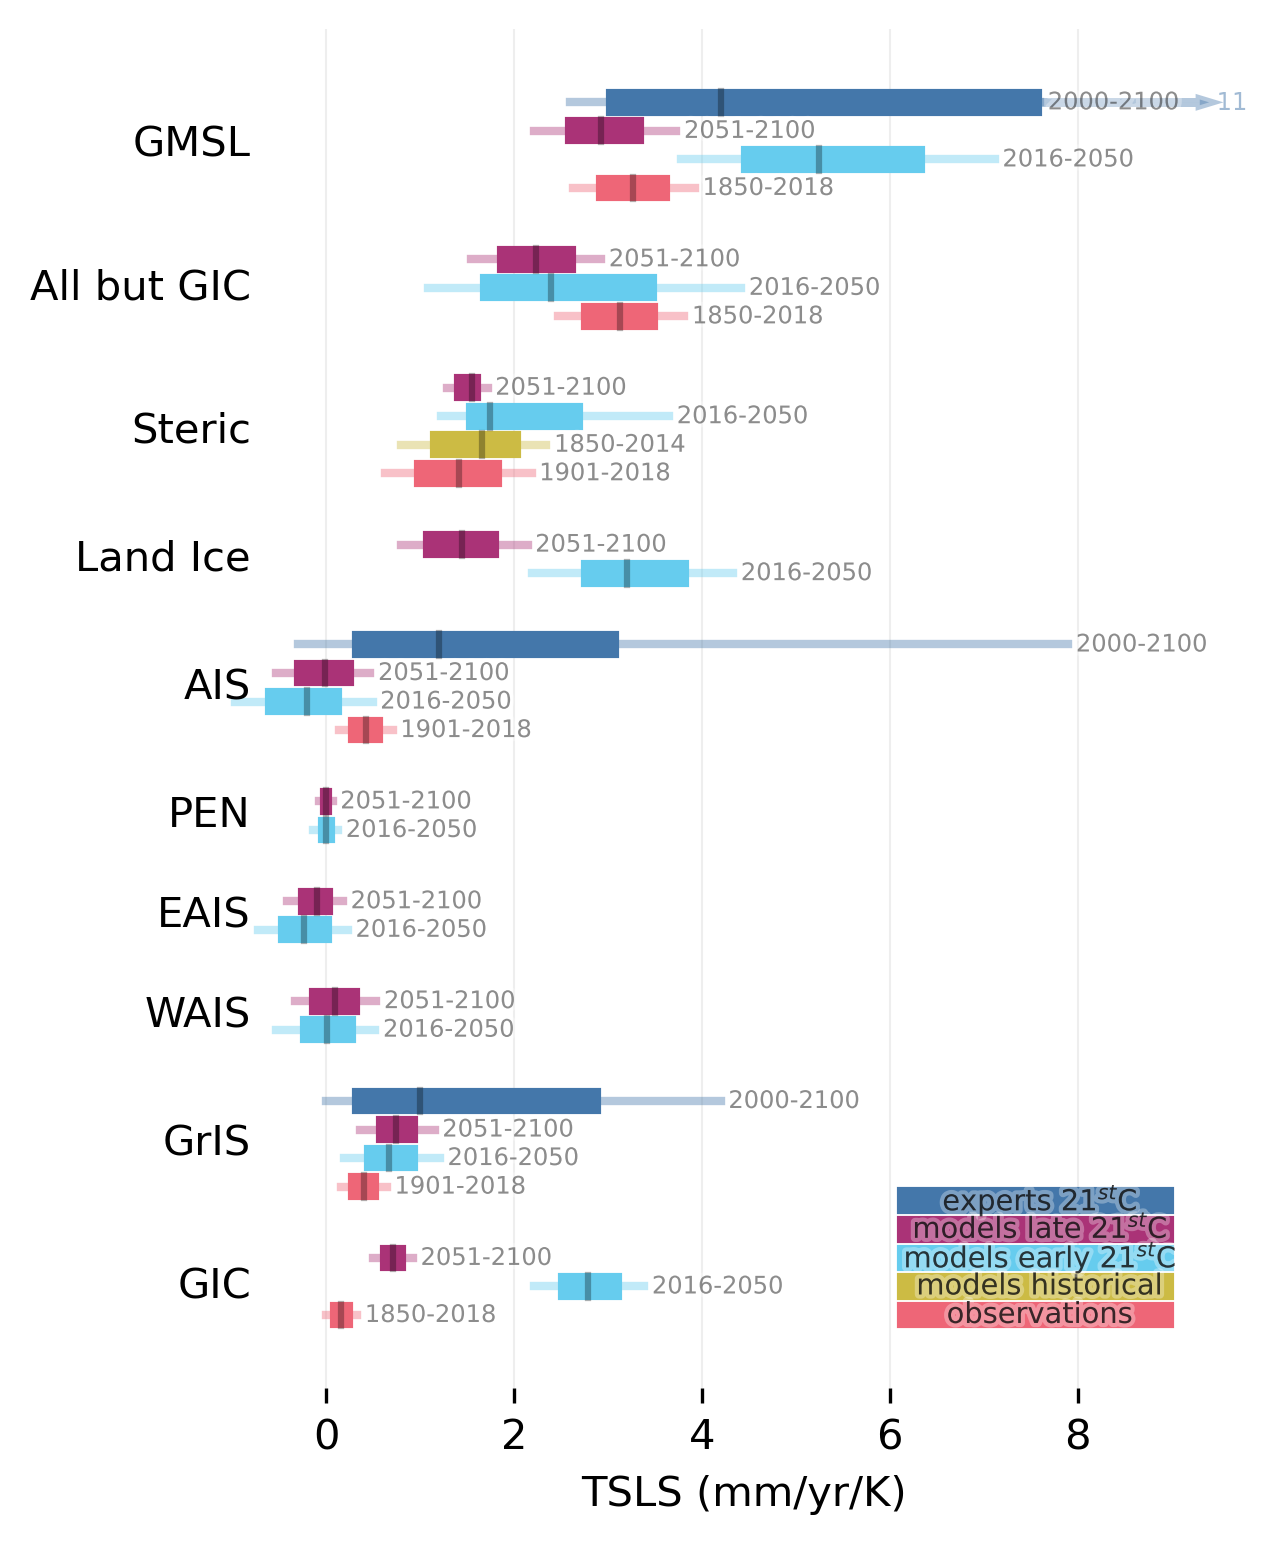
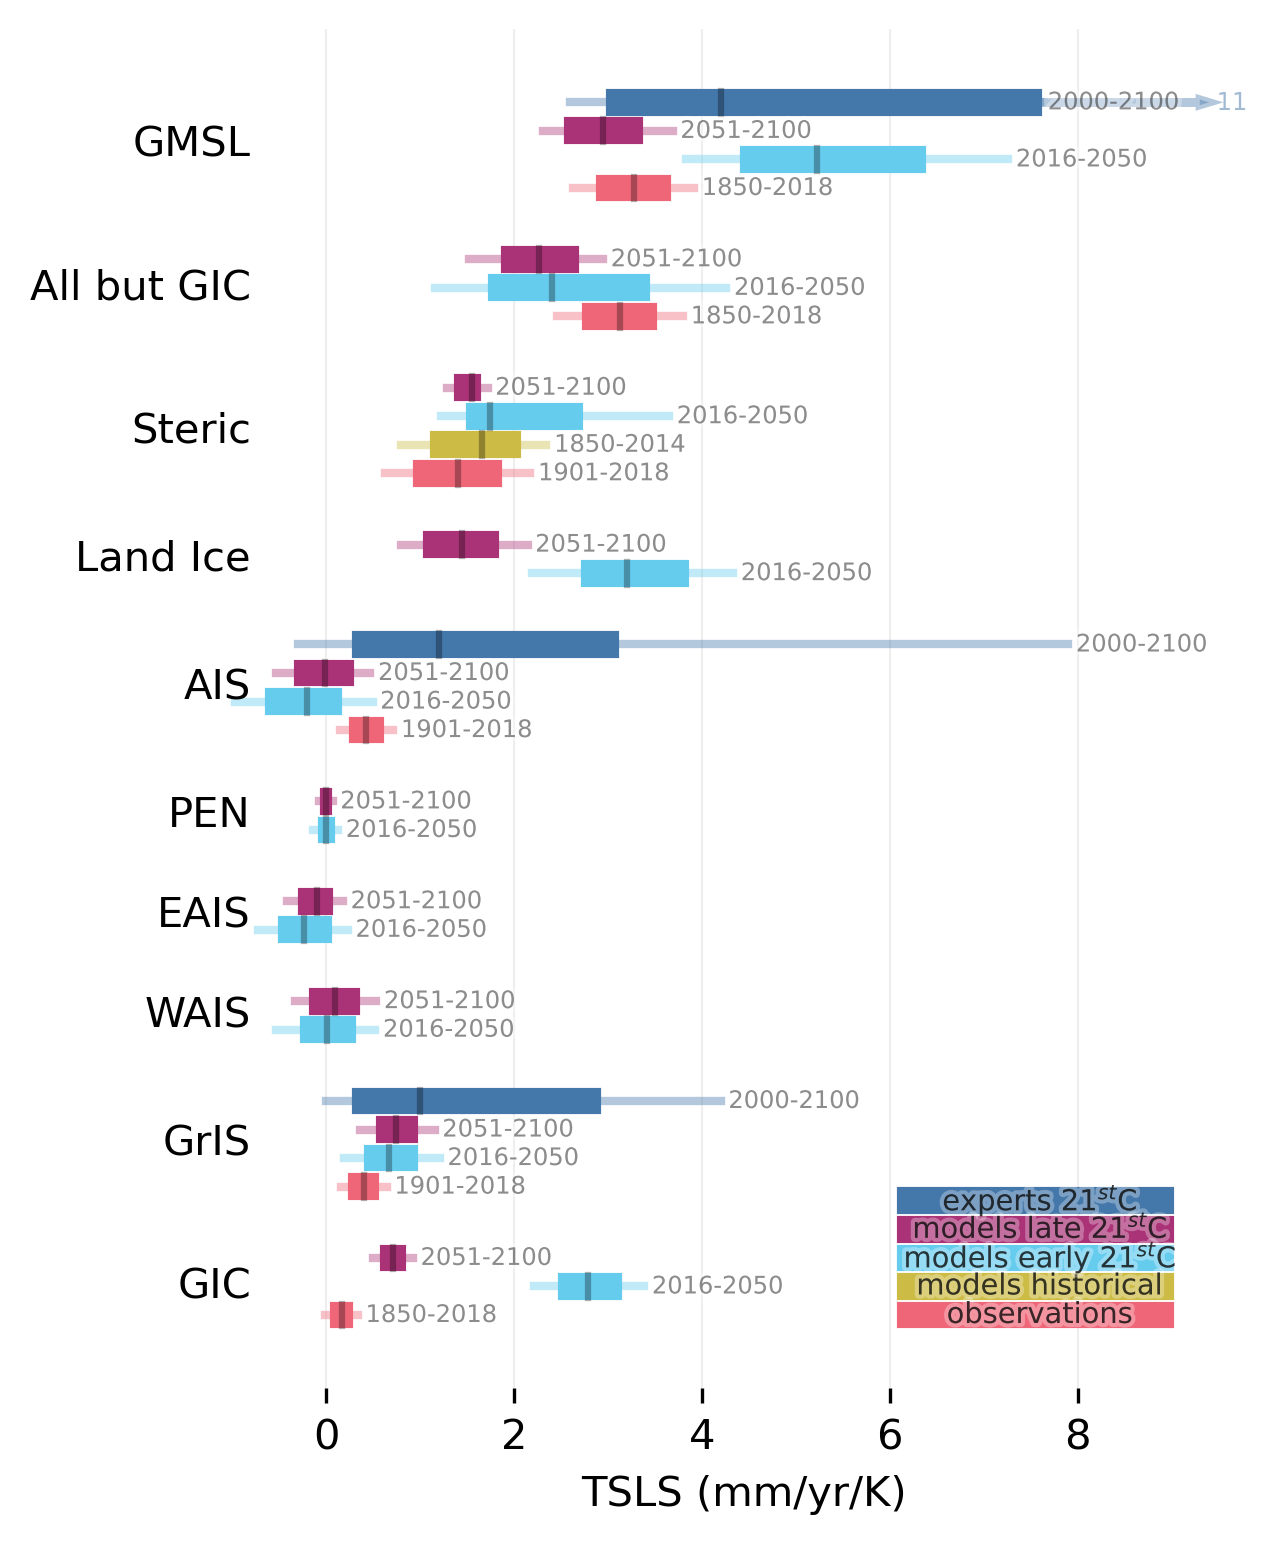
robust stats for T0

diff --git a/code/Aslak/extract_comparison_estimates.py b/code/Aslak/extract_comparison_estimates.py
@@ -14,8 +14,14 @@ from tqdm import tqdm
 import corner
 import hadcrut5
 import re
+from scipy.stats import trim_mean
 from settings import datafolder
 
+
+def robust_std(v):
+    #https://en.wikipedia.org/wiki/Robust_measures_of_scale
+    IQR = np.diff(np.percentile(v,[25,75]))[0]
+    return IQR*0.7413
 
 
 comparisonfile = f'{datafolder}/raw_data/ComparisonEstimates/ComparisonSLRrates.xlsx'
@@ -53,7 +59,8 @@ for sheet in sheets:
         o_intercept = np.full((Nmc),np.nan)
         for ii in range(Nmc):
             p = np.polyfit(x+np.random.randn(x.size)*sigmax,
-                           y+np.random.randn(y.size)*sigmay,1,w=1/sigmay)
+                           y+np.random.randn(y.size)*sigmay,
+                           1, w=1/sigmay)
             slopes[ii] = p[0]
             o_intercept[ii] = p[1]
             T0s[ii] = -p[1] / p[0]
@@ -65,7 +72,7 @@ for sheet in sheets:
                 'period start': subset['Period start'].min(),
                 'period end': subset['Period end'].max(),
                 'TSLS': np.mean(slopes),
-                'T0': np.mean(T0s),
+                'T0': trim_mean(T0s,0.1),
                 'Srate0': np.mean(o_intercept),
                 'sigmaTSLS': np.std(slopes),
                 'TSLS_P5': ptiles[0],
@@ -73,7 +80,7 @@ for sheet in sheets:
                 'TSLS_P50': ptiles[2],
                 'TSLS_P83': ptiles[3],
                 'TSLS_P95': ptiles[4],
-                'sigmaT0': np.std(T0s),
+                'sigmaT0': robust_std(T0s),
                 'sigmaSrate0': np.std(o_intercept),
             })
         #print(df.loc[:,('Name', 'Rate', 'Tanom', 'RateSigma', 'sigmaT')])
@@ -81,8 +88,7 @@ for sheet in sheets:
 
 
 output = pd.DataFrame(output)
-
-
+1/0
 output.to_csv(f'{datafolder}/processed_data/TSLS_estimates/tsls_observations.csv')
 
 # plt.errorbar(x,y,xerr=sigmax,yerr=sigmay)

diff --git a/code/Aslak/text_statements.py b/code/Aslak/text_statements.py
@@ -25,14 +25,11 @@ for ix,f in final.iterrows():
     print(f'{f.component: >11}\t{f.label: >12}\t{f.period}\t{f.mu:.1f}±{f.sigma:.1f} mm/yr/K')
 
 
-#for ix,f in final.iterrows():
-#    print(f'TSLS {f.component: >11}\t{f.label: >12}\t{f.period}\t{f.mu:.1f} ± {f.sigma:.1f} mm/yr/K')
-
 
 # STERIC SECTION:
 print('===========STERIC============')
 
-print(f"Steric observational T0: {tsls_observations.loc['Steric'].T0:.1f}")
+print(f"Steric observational T0: {tsls_observations.loc['Steric'].T0:.1f}±{tsls_observations.loc['Steric'].sigmaT0:.1f}")
 
 df = pd.read_csv(f'{datafolder}/processed_data/TSLS_estimates/tsls_steric.csv')
 for startyr in [1850,2016,2051]:

diff --git a/code/Aslak/fig_steric_scatter.py b/code/Aslak/fig_steric_scatter.py
@@ -56,7 +56,7 @@ for groupix, g in G:
 sheet_name='Steric'
 plot_comparison(sheet_name)
 plt.title(f'{sheet_name}')
-plt.xlabel("Temporal average of GMST (°C)")
+plt.xlabel("Temporal average of GMST (K)")
 plt.ylabel("$dS/dt$ (mm/yr)")
 plt.legend(fontsize='small',loc='lower right')
 plt.savefig(f'{figurefolder}/steric_scatter.png',bbox_inches='tight')

diff --git a/code/Aslak/fig_gmsl_scatter.py b/code/Aslak/fig_gmsl_scatter.py
@@ -81,7 +81,7 @@ plot_comparison('GMSL',show_line=True)
 
 
 plt.title(f'GMSL')
-plt.xlabel("Temporal average of GMST (°C)")
+plt.xlabel("Temporal average of GMST (K)")
 plt.ylabel("$dS/dt$ (mm/yr)")
 plt.legend(fontsize='small')
 
